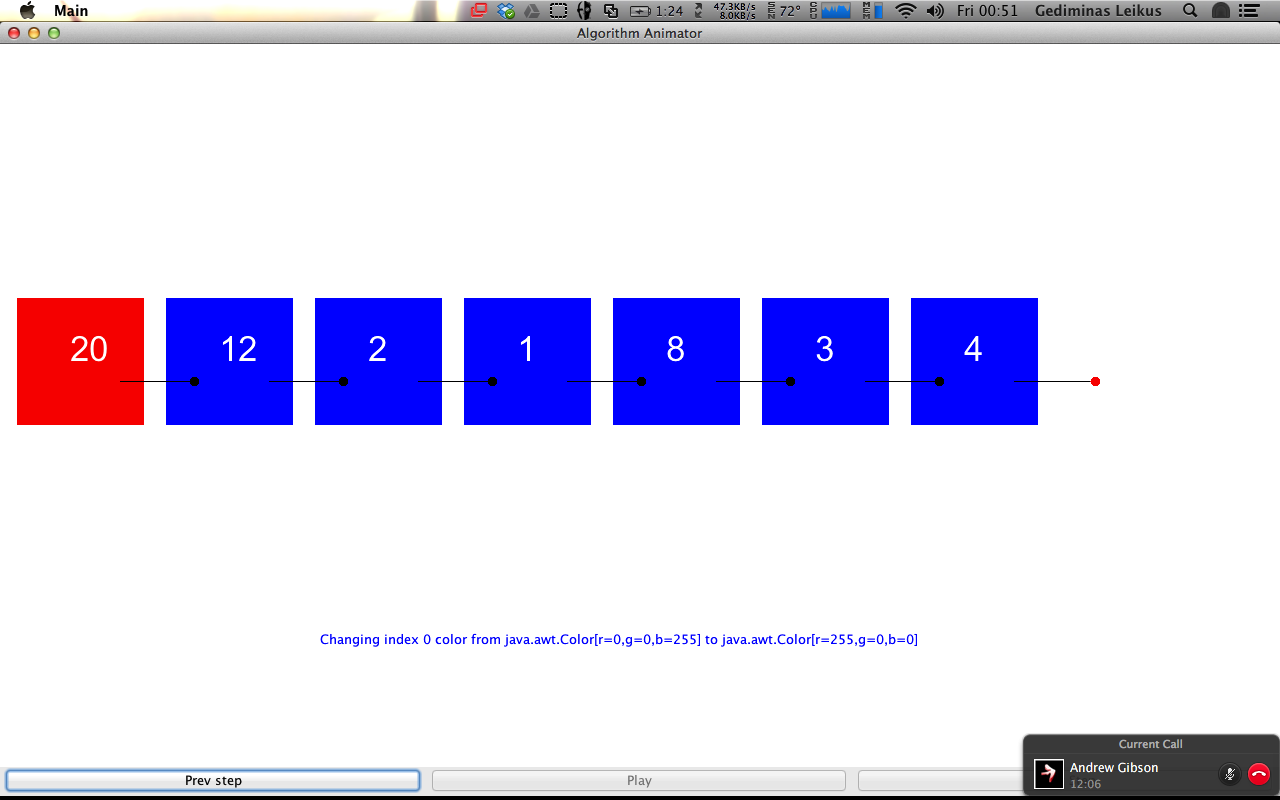
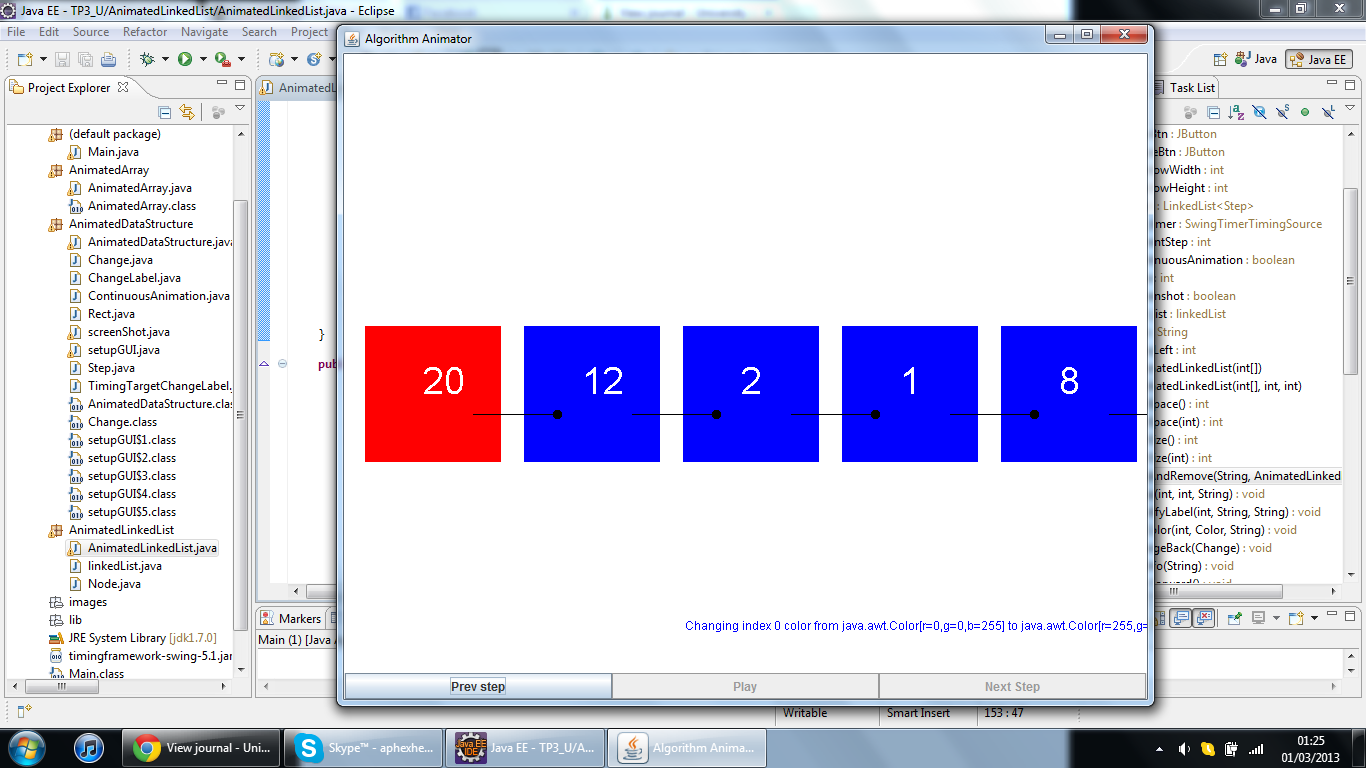
findAndRemove working, but fails with previous stepping as node reference removed

diff --git a/AnimatedLinkedList/AnimatedLinkedList.java b/AnimatedLinkedList/AnimatedLinkedList.java
@@ -44,7 +44,7 @@ public final class AnimatedLinkedList extends JPanel implements AnimatedDataStru
 	private int currentStep;																			// the currentStep
  	private boolean continuousAnimation = false; // variable to determine whether to run a continuous animation or not.
  	private int time;
- 	private boolean screenshot = true;
+ 	private boolean screenshot = false;
  	
  	private linkedList rect_list;																// we could just REMOVE this																	// same as above															// this is where all the rectangles which will be drawn are stored
 	private String info = ""; 																// a string to display information at each step
@@ -169,7 +169,6 @@ public final class AnimatedLinkedList extends JPanel implements AnimatedDataStru
 			anim.setColor(count,Color.WHITE,"Changing color to white");
 			//prev.setNext(node.getNext());   //joins the pointer for the prev element after the to be deleted node
 			//rect_list.removeNode(node); //removes this node
-			
 	
 			//here I want to add the changes associated with the above commented lines, respectively.
 			//if the above lines are not commented out, they will not be represented as a step and 
@@ -179,13 +178,15 @@ public final class AnimatedLinkedList extends JPanel implements AnimatedDataStru
 			//to get stepForward() to retrieve them
 			
 			// Trigger for a continuous animation
-			s.addChanges(new Change("pointerSwitch", prev.getData(), "Assigning pointer from previous element"));
-			s.addChanges(new Change("deleteNode", prev.getNext().getData(), "Removing node"));
+			s.addChanges(new Change("pointerSwitch", prev, "Assigning pointer from previous element"));
+			//s.addChanges(new Change("deleteNode", prev.getNext().getData(), "Removing node"));
+
 		}
 		currentStep++;
 		// Trigger for a continuous animation
 		s.addAnimator(new Animator.Builder().setDuration(1, TimeUnit.MILLISECONDS).build(), nextBtn);
 		s.getLastAnimator().addTarget(new ContinuousAnimation(currentStep+1, this));
+		
 		steps.add(s);
 	}
 	
@@ -298,13 +299,15 @@ public final class AnimatedLinkedList extends JPanel implements AnimatedDataStru
 		//System.out.println("Next step: " + steps.get(currentStep+1).getChanges().get(0).getType());
 		if (steps.get(currentStep).getChanges().get(0).getType() == "pointerSwitch") {
 			System.out.println("found pointer switch");
+			Node<Rect> p = steps.get(currentStep).getChanges().get(0).getNodeReference();
+			rect_list.removeNode(p, p.getNext(),rectSpace(rectSize()));
+			this.repaint();
+
 		}
 
-		
 		//here i'm printing out all changes, but "pointerSwitch" or "deleteNode" aren't listed
 		//System.out.println(steps.get(currentStep).getChanges().get(0).getType());
 
-		
 		
 		if (steps.get(currentStep).getList().size() != 0) { // if there are any Animators inside the step, trigger the first one
 			steps.get(currentStep).getList().get(0).start();
@@ -375,7 +378,7 @@ public final class AnimatedLinkedList extends JPanel implements AnimatedDataStru
 		//the linked list is converted into an array so that it can be worked with
 		ArrayList<Rect> arr = new ArrayList<Rect>();
 		arr = rect_list.toArray();
-
+		
 		/* fill the rectangles and draw a tag next to each one */
 		
 		for(Rect r : arr){

diff --git a/AnimatedDataStructure/Change.java b/AnimatedDataStructure/Change.java
@@ -2,9 +2,12 @@ package AnimatedDataStructure;
 import java.awt.Point;
 import java.awt.Color;
 
+import AnimatedLinkedList.Node;
+
 public class Change {
 	private String type; // type of change
 	private Rect reference; // index of the object that was changed
+	private Node<Rect> nodeReference;
 	private Object old; // position before the change
 	
 	/* Constructors for creating changes with position changes */
@@ -34,6 +37,13 @@ public class Change {
 		this.old = c;
 	}
 	
+	/* Constructors for creating changes with label changes, and NODE references */
+	public Change(String type, Node<Rect> reference, String label) {
+		this.type = type;
+		this.nodeReference = reference;
+		this.old = label;
+	}
+	
 	/* getters only. We don't want any setters */
 	
 	public String getType() {
@@ -44,6 +54,14 @@ public class Change {
 		return reference;
 	}
 	
+	public Node<Rect> getNodeReference() {
+		return nodeReference;
+	}
+
+	public void setNodeReference(Node<Rect> nodeReference) {
+		this.nodeReference = nodeReference;
+	}
+
 	/* getters with type casts. If you're using one of these, you be aware of what you'll get */
 	public Point getPoint() {
 		return (Point) old;

diff --git a/AnimatedLinkedList/linkedList.java b/AnimatedLinkedList/linkedList.java
@@ -1,4 +1,5 @@
 package AnimatedLinkedList;
+import java.awt.Rectangle;
 import java.util.ArrayList;
 
 import AnimatedDataStructure.Rect;
@@ -46,6 +47,23 @@ public class linkedList {
 			posOld = pos;
 			pos = pos.getNext();
 		}
+	}
+	
+	
+	//removes a specific node
+	public void removeNode(Node<Rect> prev, Node<Rect> target, int spacing){
+		
+		Node<Rect> after = target.getNext();
+		prev.setNext(after);
+		target.setNext(null);
+		target = null;
+		
+		while(after != null){
+			Rectangle r = after.getData().getRec();
+			r.x -= spacing;
+			after = after.getNext();
+		}
+			
 	}
 	
 	
@@ -121,7 +139,5 @@ public class linkedList {
 	public Node<Rect> getHead() {
 		return head;
 	}
-
-
 
 }
